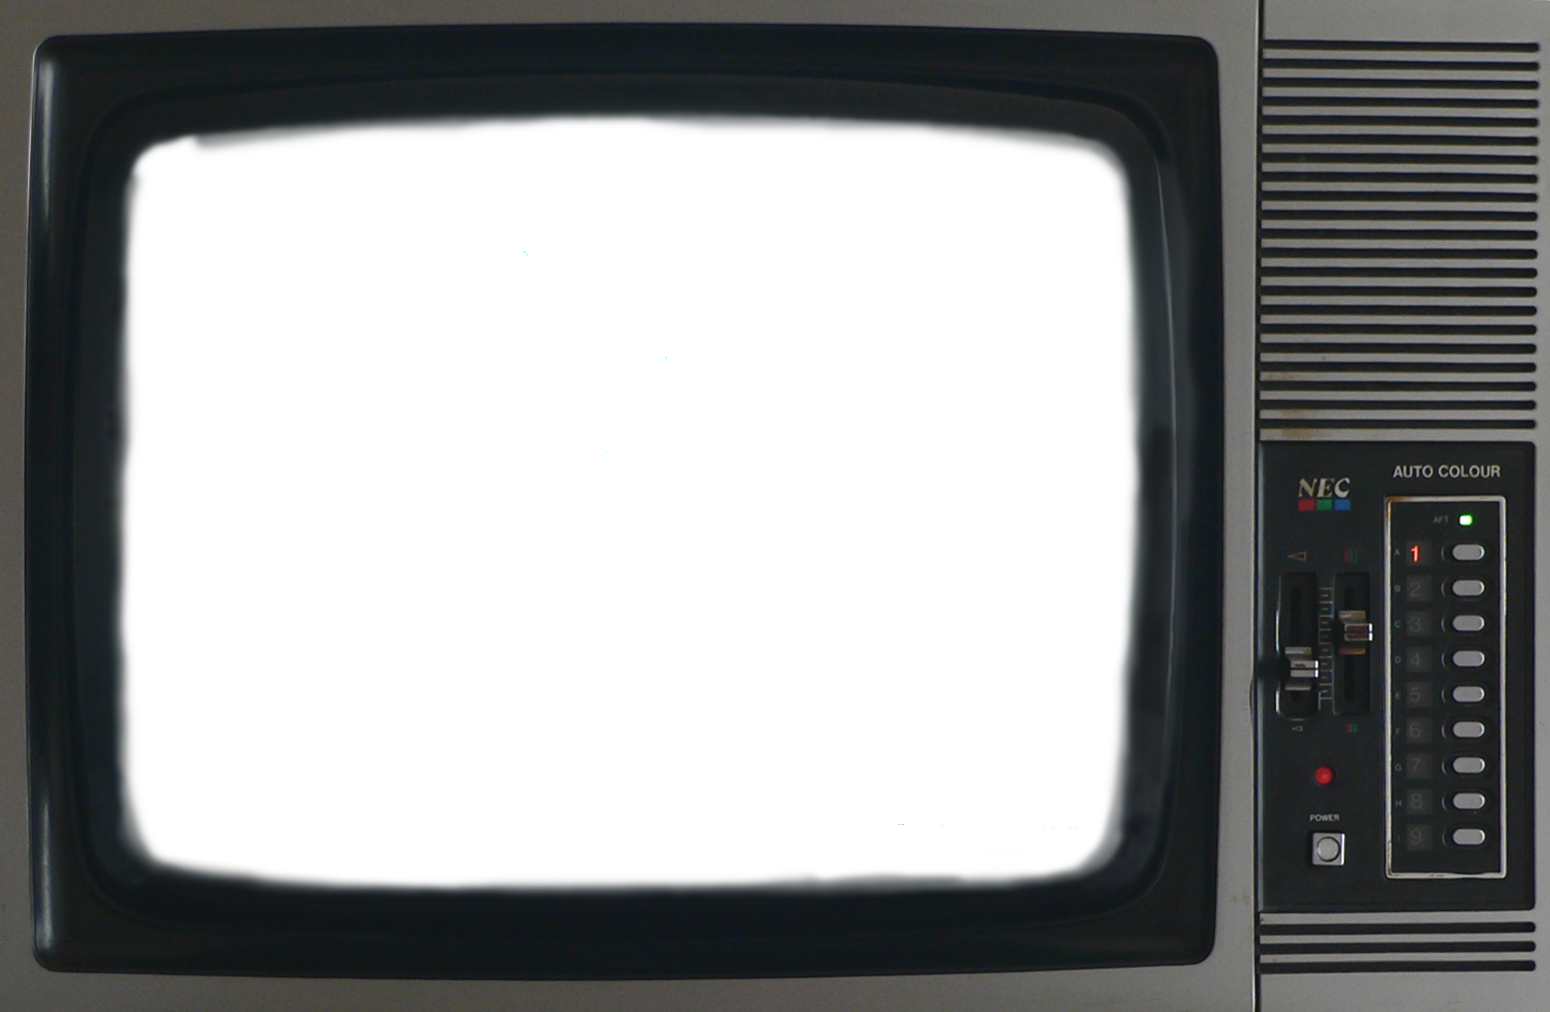
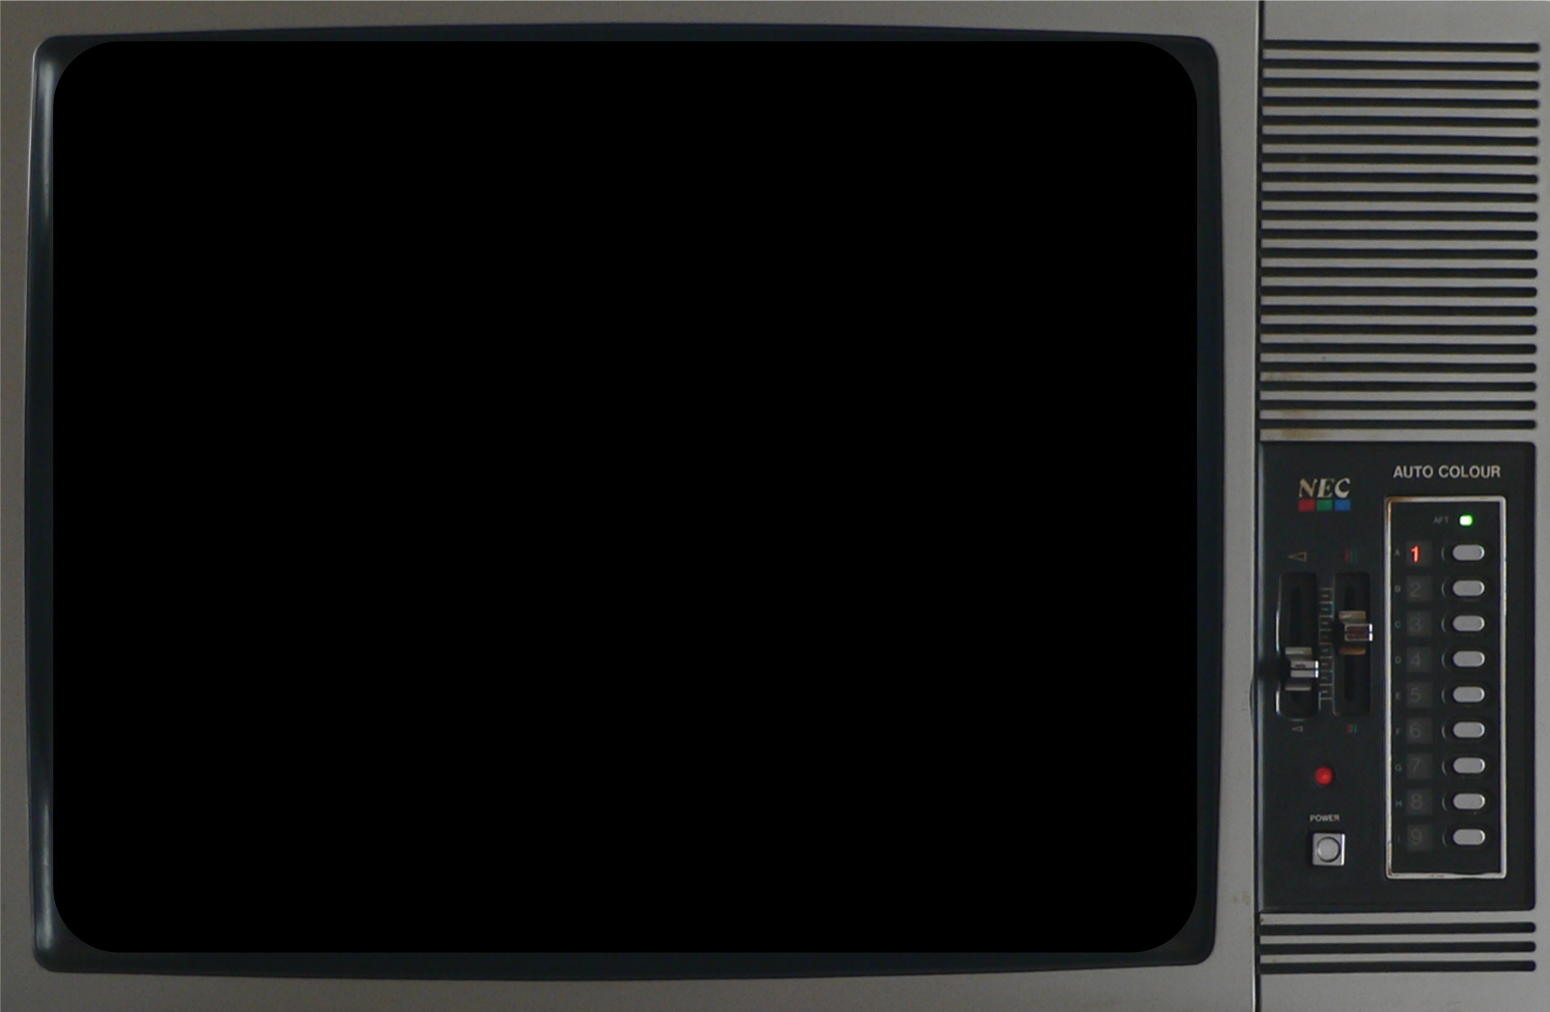
photoshopped better crt tv for video, tweaked relative video position inside crt tv

diff --git a/src/components/GameShow.js b/src/components/GameShow.js
@@ -8,6 +8,7 @@ import { toast } from 'react-toastify'
 import styled from 'styled-components'
 import crtTv from '../assets/images/crt-tv.png' 
 
+toast.configure()
 
 const GameShow = ({game, screenshots, addToFavorites, user, games}) => {
 
@@ -105,15 +106,14 @@ const crtTvDiv = {
   backgroundRepeat: "no-repeat",
   width: "600px",
   height: "400px",
-  
 }
 
 const videoStyle = {
-  width: "400px",
-  height: "300px",
+  width: "430px",
+  height: "340px",
   position: "relative",
-  top: "50px",
-  right: "60px"
+  top: "26px",
+  right: "57px"
 }
 
 
